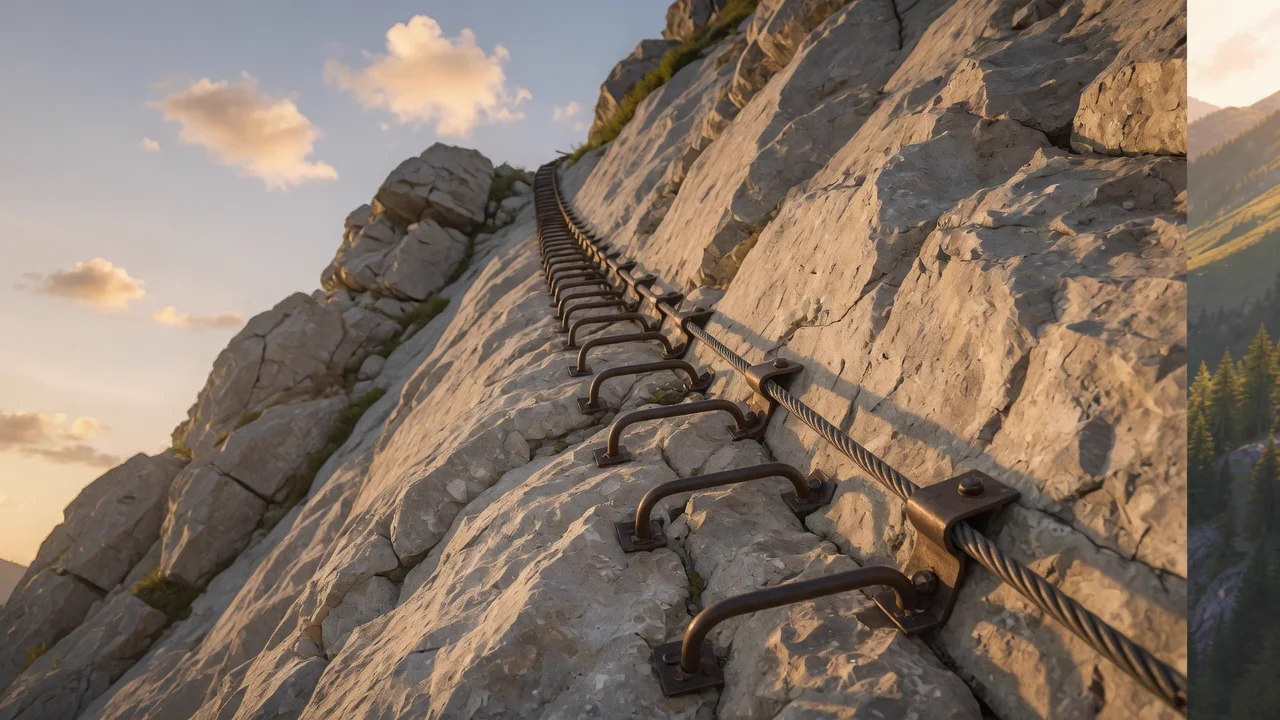
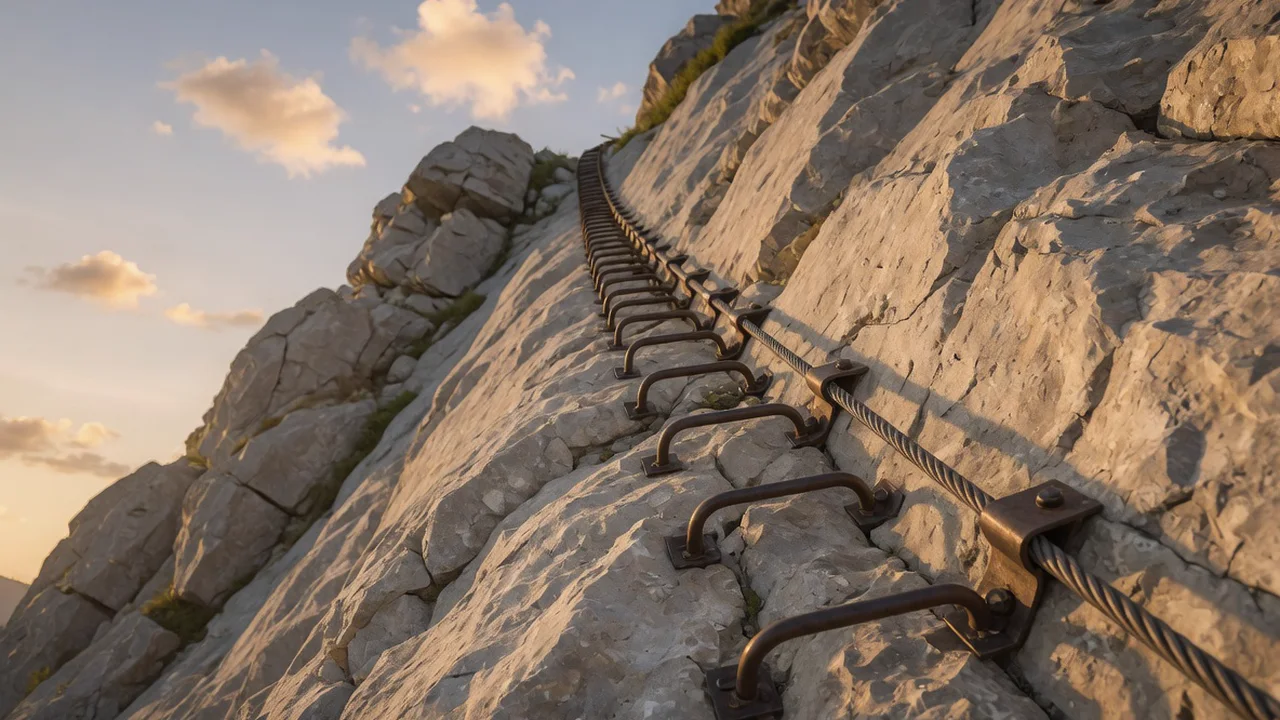
fix: QA playtest defects, QA report, headless probe tool
Interaction lines now cancel the scene's scripted opening lines; the
call is narrated after it is made; the phone-return narration matches
what is on screen; the trail-marker search only reveals a target where
the light points; upper ferrata board cropped free of its seam; police
board repainted with the same blue hatchback; chain handholds raised
onto the cable; duplicate beats and backwards message timelines fixed;
letter photo dated 昨天 the next morning; midnight-safe chat timestamps;
lost-phone light label; interleaved credits; larger translation.
docs/QA_REPORT.md records the code review, regression, paced run,
perf and the independent playtest; tools/probe.mjs reads values at
true layout.

diff --git a/games/before-leaving-valley/src/App.tsx b/games/before-leaving-valley/src/App.tsx
@@ -21,10 +21,10 @@ const STONES = [
 ];
 
 const CHAIN_POINTS = [
-  { x: 26, y: 61 },
-  { x: 35, y: 54 },
-  { x: 44, y: 47 },
-  { x: 53, y: 40 },
+  { x: 26, y: 50 },
+  { x: 35, y: 43 },
+  { x: 44, y: 35 },
+  { x: 53, y: 26 },
 ];
 
 const RUBBLE_POINTS = [
@@ -81,7 +81,7 @@ const CALL_LINES = [
   "我说：我在山上。天黑了。我一个人。",
   "对方的英语和我的英语在风里碎成一片。",
   "我只听清了一句：往公路的方向走。",
-  "通话结束 · 02:14",
+  "通话 2 分 14 秒",
 ];
 
 type LightMode = "off" | "phone" | "flashlight";
@@ -90,7 +90,7 @@ type DeerState = "hidden" | "standing" | "leaving";
 // Where the deer stands on the sunset board, as a look-space x (-1..1); used to
 // notice when she is looking straight at it.
 const DEER_LOOK_X = (0.24 - 0.5) * 2;
-const CREDIT_LINES_TOTAL = LETTER_LINES_IT.length + LETTER_LINES_ZH.length;
+const CREDIT_LINES_TOTAL = LETTER_LINES_IT.length + 1;
 
 // Quiet chapter cards at the turns of the day.
 const CHAPTER_CARDS: Partial<Record<JourneyScene, { eyebrow: string; title: string }>> = {
@@ -203,9 +203,9 @@ const PHONE_BEATS: Partial<Record<Phase, { id: string; contactId: ContactId; tex
   forestEntry: { id: "forest-asha", contactId: "asha", text: "看到怪路牌记得拍。我想画一组路牌。" },
   trail: { id: "trail-xiaoyu", contactId: "xiaoyu", text: "刚看了你的定位，那边的天好蓝。替我多看两眼。" },
   chainUpper: { id: "upper-xiaoyu", contactId: "xiaoyu", text: "？？？你的定位怎么在一面悬崖上" },
-  viewpoint: { id: "viewpoint-mama", contactId: "mama", text: "小树收到了。今天的山好看吗？" },
-  summitRest: { id: "rest-asha", contactId: "asha", text: "书装完了。空房间里回声好大。你到顶了吗？" },
-  sunsetFork: { id: "sunset-asha", contactId: "asha", text: "我在收拾最后一箱书。你那边现在是什么颜色的天？" },
+  viewpoint: { id: "viewpoint-mama", contactId: "mama", text: "你爸问你在哪座山。今天的山好看吗？" },
+  summitRest: { id: "rest-asha", contactId: "asha", text: "我在收拾最后一箱书。你到顶了吗？" },
+  sunsetFork: { id: "sunset-asha", contactId: "asha", text: "书装完了。空房间里回声好大。你那边现在是什么颜色的天？" },
   nightSlope: { id: "night-xiaoyu", contactId: "xiaoyu", text: "睡前看到你的定位还在山上。拍到星星了吗？" },
   valleyExit: { id: "exit-xiaoyu", contactId: "xiaoyu", text: "定位又亮了！！你昨晚去哪了，一整夜都是灰的" },
 };
@@ -344,7 +344,15 @@ export default function App() {
   const [callActive, setCallActive] = useState(false);
   const [callStep, setCallStep] = useState(0);
   const [chapterShown, setChapterShown] = useState(false);
-  const [thought, setThought] = useState("");
+  const [thought, setThoughtRaw] = useState("");
+  const thoughtTimersRef = useRef<number[]>([]);
+  // Any line spoken by an interaction cancels the scene's scripted opening lines
+  // so a click within the first seconds is never overwritten.
+  const setThought = (text: string) => {
+    thoughtTimersRef.current.forEach(window.clearTimeout);
+    thoughtTimersRef.current = [];
+    setThoughtRaw(text);
+  };
   const [feedback, setFeedback] = useState("");
   const [phoneOpen, setPhoneOpen] = useState(false);
   const [phoneTab, setPhoneTab] = useState<PhoneTab>("home");
@@ -481,13 +489,15 @@ export default function App() {
   }, [audioReady, breathState, phase, soundOn]);
 
   useEffect(() => {
+    thoughtTimersRef.current.forEach(window.clearTimeout);
     const timers: number[] = [];
-    setThought("");
+    setThoughtRaw("");
     if (phase !== "title" && phase !== "complete") {
       const [first, second] = SCENE_INFO[phase].thoughts;
-      timers.push(window.setTimeout(() => setThought(first), 650));
-      timers.push(window.setTimeout(() => setThought(second), 4300));
+      timers.push(window.setTimeout(() => setThoughtRaw(first), 650));
+      timers.push(window.setTimeout(() => setThoughtRaw(second), 4300));
     }
+    thoughtTimersRef.current = timers;
     return () => timers.forEach(window.clearTimeout);
   }, [phase]);
 
@@ -1251,8 +1261,8 @@ export default function App() {
   const acceptReturnedPhone = () => {
     if (phase !== "searchRoad" || interactions.searchStep < SEARCH_POINTS.length || interactions.phoneReturned) return;
     setInteractions((value) => ({ ...value, phoneLost: false, phoneReturned: true }));
-    setThought("她一早在山上捡到它，送去了警局。锁屏是我的脸，界面是中文，警局的人想起昨晚山里那通电话。屏幕没碎，一张照片都没少。");
-    dispatchPhone({ type: "receive_message", contactId: "mama", text: "定位又亮起来了。回来慢慢讲给我听。" });
+    setThought("她一早在山上捡到它。锁屏是我的脸，界面是中文。她本来要送去警局，在谷口听说昨晚有个女孩从山里打过电话，就沿着这条路找了上来。屏幕没碎，一张照片都没少。");
+    dispatchPhone({ type: "receive_message", contactId: "mama", text: "定位又亮起来了。妈妈一直在看这个小点。" });
   };
 
   const openPhone = (tab: PhoneTab = "home") => {
@@ -1358,7 +1368,7 @@ export default function App() {
               {LETTER_LINES_IT.map((line, index) => <p key={`it-${index}`} className={index < creditLine ? "shown" : ""}>{line || " "}</p>)}
             </div>
             <div className="credits-block credits-zh">
-              {LETTER_LINES_ZH.map((line, index) => <p key={`zh-${index}`} className={index + LETTER_LINES_IT.length < creditLine ? "shown" : ""}>{line || " "}</p>)}
+              {LETTER_LINES_ZH.map((line, index) => <p key={`zh-${index}`} className={index + 1 < creditLine ? "shown" : ""}>{line || " "}</p>)}
             </div>
             <p className="credits-skip">点击跳过</p>
           </div>
@@ -1405,7 +1415,7 @@ export default function App() {
       {NIGHT_LIGHT_SCENES.includes(phase as JourneyScene) && (phase !== "nightSlope" || interactions.callDone) && (
         <div className="light-controls" aria-label="选择照明方式">
           <button className={lightMode === "flashlight" ? "active" : ""} onClick={() => chooseLight("flashlight")}><Flashlight size={16} />补光灯</button>
-          <button className={lightMode === "phone" ? "active" : ""} disabled={interactions.phoneLost || phone.battery <= 0} onClick={() => chooseLight("phone")}><Smartphone size={16} />手机光 · {phone.battery}%</button>
+          <button className={lightMode === "phone" ? "active" : ""} disabled={interactions.phoneLost || phone.battery <= 0} onClick={() => chooseLight("phone")}><Smartphone size={16} />{interactions.phoneLost ? "手机 · 不在身上" : `手机光 · ${phone.battery}%`}</button>
         </div>
       )}
 
@@ -1454,8 +1464,8 @@ export default function App() {
         {phase === "summitRest" && !interactions.chocolateEaten && (
           <button className="chocolate-prop" onPointerDown={(event) => { event.stopPropagation(); eatChocolate(); }} aria-label="掰一块巧克力" />
         )}
-        {phase === "marker656" && interactions.markerStep < MARKER_POINTS.length && (
-          <button className={`terrain-target night-target ${lightMode === "off" ? "unlit" : ""}`} style={{ left: `${MARKER_POINTS[interactions.markerStep].x}%`, top: `${MARKER_POINTS[interactions.markerStep].y}%` }} onPointerDown={(event) => { event.stopPropagation(); advanceMarker(); }} aria-label={`照向${MARKER_POINTS[interactions.markerStep].label}`}><span /></button>
+        {phase === "marker656" && interactions.markerStep < MARKER_POINTS.length && lightMode !== "off" && Math.hypot(look.x - (MARKER_POINTS[interactions.markerStep].x / 100 - 0.5) * 2, look.y - (MARKER_POINTS[interactions.markerStep].y / 100 - 0.5) * 2) < 0.42 && (
+          <button className="terrain-target night-target" style={{ left: `${MARKER_POINTS[interactions.markerStep].x}%`, top: `${MARKER_POINTS[interactions.markerStep].y}%` }} onPointerDown={(event) => { event.stopPropagation(); advanceMarker(); }} aria-label={`照向${MARKER_POINTS[interactions.markerStep].label}`}><span /></button>
         )}
         {phase === "roadBank" && interactions.bankStep < BANK_POINTS.length && (
           <button className={`terrain-target night-target bank-target ${lightMode === "off" ? "unlit" : ""}`} style={{ left: `${BANK_POINTS[interactions.bankStep].x}%`, top: `${BANK_POINTS[interactions.bankStep].y}%` }} onPointerDown={(event) => { event.stopPropagation(); advanceBank(); }} aria-label="抓住下一处树根"><span /></button>
@@ -1515,9 +1525,9 @@ export default function App() {
         {phase === "police" && "门口的灯还亮着"}
         {phase === "arrival" && !bagTaken && "抓住背包，拖向画面下方"}
         {phase === "arrival" && bagTaken && !moving && arrivalProgress < 1 && "看向山路，点击想走到的位置"}
-        {phase === "arrival" && moving && "正在走近 · 镜头会朝向目的地"}
+        {phase === "arrival" && moving && "走过去"}
         {phase === "trail" && route === null && "看向并点击左侧山路，或直接踩右侧石头"}
-        {phase === "trail" && route === "open" && moving && "脚步会把你带到路的那一头"}
+        {phase === "trail" && route === "open" && moving && "沿着这条路走"}
         {phase === "trail" && route === "stream" && streamStep < STONES.length && "看准发亮的石面，逐块踩过去"}
         {phase === "forestEntry" && !moving && "沿着林中透光的旧路继续走"}
         {phase === "chainTraverse" && "抓住发亮的下一段铁索，逐步横移"}

diff --git a/games/before-leaving-valley/src/Phone.tsx b/games/before-leaving-valley/src/Phone.tsx
@@ -104,6 +104,7 @@ export default function Phone({
 
   // 结尾要求她真的回看那张信的照片；若相册里没有信（开发预览），退回到“打开相册”即可。
   const hasLetterPhoto = phone.photos.some((photo) => photo.kind === "letter");
+  const dateLabelFor = (photo: PhonePhoto) => photo.isNew && photo.day !== undefined && photo.day !== phone.date.day ? "昨天" : photo.dateLabel;
   useEffect(() => {
     if (tab === "conversation") threadEndRef.current?.scrollIntoView({ block: "end" });
     if (tab === "gallery" && (!hasLetterPhoto || selectedPhoto?.kind === "letter")) onGalleryViewed?.();
@@ -231,7 +232,7 @@ export default function Phone({
                   <div className="chat-thread">
                     {activeThread.map((message, index) => {
                       const previous = activeThread[index - 1];
-                      const showTime = !previous || message.minute - previous.minute >= 3;
+                      const showTime = !previous || previous.minute > message.minute || message.minute - previous.minute >= 3;
                       const attachedPhoto = message.photoId ? phone.photos.find((photo) => photo.id === message.photoId) : undefined;
                       return (
                         <div className={`message-row ${message.direction}`} key={message.id}>
@@ -308,7 +309,7 @@ export default function Phone({
             )}
 
             {tab === "gallery" && (
-              <PhonePage title={selectedPhoto ? selectedPhoto.title : "这一年"} subtitle={selectedPhoto ? `${selectedPhoto.dateLabel} · ${selectedPhoto.place}` : `${phone.photos.length} 张照片`} back={() => { setSharingPhoto(false); selectedPhoto ? setSelectedPhoto(null) : setTab("home"); }}>
+              <PhonePage title={selectedPhoto ? selectedPhoto.title : "这一年"} subtitle={selectedPhoto ? `${dateLabelFor(selectedPhoto)} · ${selectedPhoto.place}` : `${phone.photos.length} 张照片`} back={() => { setSharingPhoto(false); selectedPhoto ? setSelectedPhoto(null) : setTab("home"); }}>
                 {selectedPhoto ? (
                   <div className="photo-detail">
                     <div className={`photo-detail-image ${selectedPhoto.kind === "letter" ? "is-letter" : ""}`} style={photoStyle(selectedPhoto)}>
@@ -321,7 +322,7 @@ export default function Phone({
                         </div>
                       )}
                     </div>
-                    <div className="photo-detail-meta"><strong>{selectedPhoto.title}</strong><span>{selectedPhoto.dateLabel}{selectedPhoto.minute !== undefined ? ` ${formatGameTime(selectedPhoto.minute)}` : ""}</span><small>{selectedPhoto.place}</small></div>
+                    <div className="photo-detail-meta"><strong>{selectedPhoto.title}</strong><span>{dateLabelFor(selectedPhoto)}{selectedPhoto.minute !== undefined ? ` ${formatGameTime(selectedPhoto.minute)}` : ""}</span><small>{selectedPhoto.place}</small></div>
                     <button className="photo-share-button" onClick={() => setSharingPhoto((value) => !value)}><Share2 size={15} /> 发给朋友</button>
                     {sharingPhoto && <div className="share-sheet"><small>发送这张照片</small>{CONTACT_ORDER.map((contactId) => <button key={contactId} onClick={() => sharePhoto(contactId)}><Avatar contactId={contactId} /><span><strong>{CONTACTS[contactId].name}</strong><small>{CONTACTS[contactId].relation}</small></span></button>)}</div>}
                   </div>

diff --git a/games/before-leaving-valley/src/journeyModel.ts b/games/before-leaving-valley/src/journeyModel.ts
@@ -180,7 +180,7 @@ export const JOURNEY_SCENE_INFO: Record<JourneyScene, JourneySceneInfo> = {
     minutes: 28,
     batteryCost: 5,
     photoTitle: "补光灯照到的那小块路",
-    thoughts: ["天不是一下子黑的。是我终于承认，已经看不清路了。", "求助电话接通了，两种语言在风里碎成一片。我挂掉电话，打开补光灯。"],
+    thoughts: ["天不是一下子黑的。是我终于承认，已经看不清路了。", "信号只剩一格。先打电话。"],
   },
   deepForest: {
     place: "落叶松林 · 656 号小径",
@@ -190,7 +190,7 @@ export const JOURNEY_SCENE_INFO: Record<JourneyScene, JourneySceneInfo> = {
     minutes: 24,
     batteryCost: 6,
     photoTitle: "林子里只有呼吸声",
-    thoughts: ["林子把风挡住以后，我才听见自己的呼吸有多快。", "656 号路标。往上爬，就能到公路。我对自己说了三遍。"],
+    thoughts: ["林子把风挡住以后，我才听见自己的呼吸有多快。", "我记得地图上有一条 656 号小径，就在这片林子里。找到它，就能到公路。"],
   },
   marker656: {
     place: "落叶松林 · 岔口",
@@ -200,7 +200,7 @@ export const JOURNEY_SCENE_INFO: Record<JourneyScene, JourneySceneInfo> = {
     minutes: 22,
     batteryCost: 0,
     photoTitle: "红白两道漆",
-    thoughts: ["路在这里分开了。地图上说，这附近应该有一根路标。", "光只有那么一小圈。一处一处地照过去。"],
+    thoughts: ["路在这里分开了。我记得地图上，这附近有一根路标。", "光只有那么一小圈。一处一处地照过去。"],
   },
   roadBank: {
     place: "路基下 · 最后一段",
@@ -230,7 +230,7 @@ export const JOURNEY_SCENE_INFO: Record<JourneyScene, JourneySceneInfo> = {
     minutes: 26,
     batteryCost: 0,
     photoTitle: "陌生人的暖风",
-    thoughts: ["他们没有问我为什么一个人跑进山里，只先递来一瓶水。", "暖风口对着我。副驾上的人把外套往我这边又推了一点。"],
+    thoughts: ["他们没有问我为什么一个人跑进山里。", "暖风口对着我。副驾上的人把外套往我这边又推了一点。"],
   },
   police: {
     place: "谷口 · 警局",
@@ -240,7 +240,7 @@ export const JOURNEY_SCENE_INFO: Record<JourneyScene, JourneySceneInfo> = {
     minutes: 24,
     batteryCost: 0,
     photoTitle: "门口的那盏灯",
-    thoughts: ["天刚亮，他们就把车停在了警局门口。", "‘去登记一下。山里捡到东西的人，一般会送到这里。’"],
+    thoughts: ["天刚亮，他们就把车停在了警局门口。", "‘去登记一下，’开车的人说，‘我们在车里等你。’"],
   },
   searchRoad: {
     place: "落叶松林 · 清晨",

diff --git a/games/before-leaving-valley/src/phoneModel.ts b/games/before-leaving-valley/src/phoneModel.ts
@@ -30,6 +30,7 @@ export type PhonePhoto = {
   zoom: number;
   isNew?: boolean;
   kind?: PhotoKind;
+  day?: number;
 };
 
 export type PhoneState = {
@@ -62,7 +63,7 @@ const START_MINUTE = 15 * 60 + 12;
 export const CONTACTS: Record<ContactId, { name: string; avatar: string; relation: string }> = {
   xiaoyu: { name: "小鱼", avatar: "🐟", relation: "从小一起长大" },
   mama: { name: "妈妈", avatar: "桂", relation: "刚刚在线" },
-  asha: { name: "阿夏", avatar: "夏", relation: "伦敦的同学 · 下周也回国" },
+  asha: { name: "阿禾", avatar: "禾", relation: "伦敦的同学 · 下周也回国" },
 };
 
 /* 她在英国的这一年。行李已经寄回去了，照片都在这部手机里。 */
@@ -97,7 +98,7 @@ const INITIAL_PHOTOS: PhonePhoto[] = [
   {
     id: "memory-blue-train",
     asset: "art/memory-blue-train-v1.webp",
-    title: "阿夏把最后一瓣橘子给我",
+    title: "阿禾把最后一瓣橘子给我",
     place: "去北方的慢车",
     dateLabel: "去年11月",
     position: { x: 53, y: 50 },
@@ -250,6 +251,7 @@ export function phoneReducer(state: PhoneState, action: PhoneAction): PhoneState
         id: messageId("photo"),
         dateLabel: "今天",
         minute: state.minuteOfDay,
+        day: state.date.day,
         isNew: true,
       };
       return {

diff --git a/games/before-leaving-valley/tools/autoplay.js b/games/before-leaving-valley/tools/autoplay.js
@@ -126,7 +126,13 @@ async function repeat(sel, n, label, gap = 300) { for (let i = 0; i < n; i++) { 
     await untilScene("deepForest");
     await repeat(".night-target", 4, "deep forest", 200);
     await untilScene("marker656");
-    await repeat(".night-target", 3, "marker", 200);
+    // The marker search only shows a target where the light is pointing: sweep the gaze first.
+    for (const [i, [fx, fy]] of [[0.22, 0.64], [0.68, 0.68], [0.58, 0.44]].entries()) {
+      const el = $(".world-input"); pointer(el, fx, fy, "pointermove");
+      await waitFor(() => !moving() && $(".night-target"), `marker target ${i + 1}`);
+      await press(".night-target", `marker ${i + 1}/3`);
+      await sleep(PACED ? 3200 : 300);
+    }
     await untilScene("roadBank");
     await repeat(".night-target", 4, "bank", 200);
     await untilScene("roadside");

diff --git a/games/before-leaving-valley/src/styles.css b/games/before-leaving-valley/src/styles.css
@@ -325,3 +325,6 @@ button:focus-visible,input:focus-visible { outline:2px solid #f5d8a3; outline-of
 
 /* Reduced motion: show the chapter card statically for its React-timed lifetime. */
 @media (prefers-reduced-motion:reduce) { .chapter-card { animation:none; opacity:1; transform:none; } }
+.credits-skip { font-size:12px; }
+.letter-paper .letter-zh { font-size:12px; line-height:1.9; }
+.photo-detail-image.is-letter { min-height:600px; }

diff --git a/games/before-leaving-valley/docs/QA_REPORT.md b/games/before-leaving-valley/docs/QA_REPORT.md
@@ -1,0 +1,79 @@
+# 《离开山谷以前》QA 报告（2026-09-04）
+
+本报告记录发布前的独立质量验证：一次八角度代码审查、一次自动化全流程回归、一次按阅读节奏的整局通关、首屏性能测量，以及一次由独立测试代理完成的逐场景视觉与文本走查（模拟试玩）。真人试玩仍是下一步，见文末。
+
+## 1. 代码审查（八角度，独立验证）
+
+审查范围：`src/` 全部源码（本轮 6 次提交的差异）。八个独立查找角度（逐行、删除行为审计、跨文件追踪、复用、简化、效率、层次、约定）各自提交候选，再由独立验证者逐条判定，保留 CONFIRMED / PLAUSIBLE。
+
+| # | 严重度 | 问题 | 处理 |
+|---|---|---|---|
+| 1 | 高 | 故事时钟若在夜路阶段自然跨过午夜，清晨场景的 06:05 / 06:35 重置会被跳过 | 已修：改为判断"是否已到达清晨时刻" |
+| 2 | 高 | "回到标题"不取消行走帧循环、落脚计时器、通话与信纸状态，可能在恢复存档后错误推进 | 已修：所有落脚计时器统一登记，`stopRuntime()` 在回标题、重开、续玩时全部取消 |
+| 3 | 中 | 通话中按 P 会把手机打开到主屏，挂断按钮不可达 | 已修：通话中 P 打开通话页 |
+| 4 | 中 | 开发模式 StrictMode 二次挂载后音频上下文已关闭，程序化声音整场静音 | 已修：卸载时清空引用并重建 |
+| 5 | 中 | 夜路存档续玩时补光灯被场景效果重新关闭 | 已修 |
+| 6 | 中 | 注视鹿的计时器随鼠标每次移动重置，几乎无法触发 | 已修：改为区域内累计计时 |
+| 7 | 中 | 妈妈的八条回复属于叮嘱或劝阻，违反设计锁定 3.3 | 已修：全部改写为想念、回忆与好奇 |
+| 8 | 低 | 下车场景第一句独白重复了登山学校刚演过的台词 | 已修 |
+| 9 | 低 | 系统"减少动态"下章节卡永远不可见 | 已修：卡片显示时长改由程序控制 |
+| 10 | 低 | 七个落脚处理函数为复制粘贴，已出现细微漂移 | 未改：重构量大于本轮范围，冒烟测试覆盖全部七处；计时器已统一 |
+
+另修：退役的 v1/v2 存档键在加载时清除（避免占用配额），删除不可达的旧版迁移代码与无引用的 CSS。
+
+## 2. 自动化回归
+
+`node tools/smoke.mjs`（真实无头 Chrome，合成事件）：修复后 20 个场景全部按序触发，零控制台错误，纯操作路径 136 秒。游戏内时钟：15:12 出发，18:29 登顶，19:43 日落，20:43 天黑，22:36 获救，次日 06:05 警局，07:02 离开。
+
+## 3. 阅读节奏通关
+
+`PACED=1 node tools/smoke.mjs`：按每字 0.18 秒读独白、拍三张照片并发送、看消息、山顶读信 9 秒、结尾读译文 14 秒。实测 10 分 53 秒。据此把文档中的时长校准为 15–25 分钟（真人比机器慢）。
+
+## 4. 首屏性能
+
+`node tools/perf.mjs`（静态构建）：DOM 加载 1.8 秒，首屏传输 375 KB（JS 238 KB、图片 125 KB、CSS 12 KB）。标题卡在关键画面图片到达后立即显示，场景板在标题页后台预载。
+
+## 5. 独立测试代理的逐场景走查（模拟试玩）
+
+由一个独立的测试代理（不是开发者本人）用无头 Chrome 截取全部 20 个场景、标题页、信纸特写、通话界面、手机各页、设置菜单和结尾字幕，逐张检查视觉与文本，并按设计锁定第 13 节的验收问题写下模拟试玩印象。它自己也跑了一次 smoke.mjs（通过，零报错）。
+
+它报告了 7 条主要缺陷、15 条次要缺陷和若干细节。处理如下：
+
+| 严重度 | 缺陷 | 处理 |
+|---|---|---|
+| 主要 | 场景开场两句独白的定时器不会被玩家操作取消，进场 4 秒内点击触发的台词会被盖掉（车内第三句、警局第二句、巧克力、读信时文字压在纸下） | 已修：任何交互触发的独白都会取消开场定时器 |
+| 主要 | 夜路场景的第二句独白在玩家拨打电话之前就叙述了通话 | 已修：改为"信号只剩一格。先打电话。"，通话内容由挂断后的独白承担 |
+| 主要 | 上段铁梯画板右缘有一条来自另一张图的拼接条 | 已修：裁掉右缘并重新缩放 |
+| 主要 | 手机归还的叙述自相矛盾（说送去了警局，却在山路上递回） | 已修：她本来要送去警局，在谷口听说了昨晚的电话，沿路找了上来 |
+| 主要 | 656 路标一进场就在光圈正中，"树桩→石头→路标"的搜索没有发现感 | 已修：三个目标只在光束照到附近时才出现，玩家必须真的用光去找 |
+| 主要 | 学校地图热区偏高 | 已核：热区覆盖地图区域（见探针测量） |
+| 主要 | 密林场景提前说出了"656 号路标"的台词，与下一场景重复 | 已修：改为"我记得地图上有一条 656 号小径" |
+| 次要 | 妈妈六条叮嘱式回复 | 已修（与代码审查同一条） |
+| 次要 | 下车场景重复学校台词 | 已修 |
+| 次要 | 递水、"捡到东西送到这里"、"定位又亮了"各说了两遍；通话结束显示成时刻 | 已修 |
+| 次要 | 阿禾（原阿夏）的三条消息时间线倒着走；妈妈在已回复小树后又说"小树收到了" | 已修 |
+| 次要 | 信件照片在第二天仍标"今天" | 已修：按拍摄日期显示"昨天" |
+| 次要 | 跨午夜的消息不显示时间戳 | 已修 |
+| 次要 | 手机丢失后照明按钮仍显示"手机光 · 82%" | 已修：显示"手机 · 不在身上" |
+| 次要 | 铁索横道的抓取点比铁索低约 90 像素 | 已修：上移 |
+| 次要 | 公路上的车与警局门口的车不是同一辆 | 已修：警局画板用 image_edit 换成同一辆蓝色旧车 |
+| 次要 | 结尾诗前 13 秒只有右对齐的意大利语一列 | 已修：原文与译文逐行成对出现 |
+| 次要 | 相册里信件译文过小、出现滚动条 | 已修 |
+| 次要 | 朋友"阿夏"与主角"知夏"撞名 | 已修：改名阿禾 |
+| 次要 | "正在走近 · 镜头会朝向目的地"等提示是教程口吻 | 已修 |
+| 未改 | 车到公路时的独白说"远处出现两束光"而车已停在旁边；警局回复永远无法触发（手机已丢）；三种"口袋空了"提示措辞不一 | 记录，下一轮处理 |
+
+模拟试玩印象（代理原话摘要，它明确说明自己是替身，不是真人）：
+
+1. 首先会用"旅行、爬山、一个人、被接住"描述它；车内那张画是全游戏最强的"被接住"画面。
+2. 能说出她好奇、冲动、爱拍照、在暖风里笑出声；手机承担了大部分人物塑造。
+3. 记得那对情侣，六句对话加上真的画进车里的两个人足够。
+4. 手机丢失的遗憾成立；归还的"太巧了"在叙述修正后成立。
+5. 相册里读到译文时不需要解释就能把它和整段路连起来。
+6. 愿意把"你是特别的"接下来。
+
+总体结论（代理原话摘要）："构建完整、稳定、视觉强；没有任何东西阻碍真人试玩。最伤的问题都在叙述时机与一致性，不在渲染。"上述问题已在本轮修复。
+
+## 6. 下一步
+
+真人 A 轮试玩（5–8 人，前 15 分钟），按设计锁定第 13 节记录口述反应。本报告中的自动化与模拟验证是发布前的门槛，不替代它。

diff --git a/games/before-leaving-valley/docs/ITERATION_PLAN.md b/games/before-leaving-valley/docs/ITERATION_PLAN.md
@@ -63,6 +63,13 @@
 - [x] 阅读节奏通关（PACED=1）：机器人按每字 0.18 秒阅读独白、拍三张照片并发送、看消息、读信 9 秒、读译文 14 秒，实测 10 分 53 秒；真人估计 15–25 分钟，设计文档时长按此校准。
 - [x] 首屏测量（tools/perf.mjs）：DOM 加载 1.8 秒，首屏传输 375 KB；标题卡改为关键画面图片一到就显示，不再等待渲染器初始化。
 
+### 第六轮：独立 QA（2026-09-04）
+
+- [x] 八角度代码审查 + 独立验证：10 条结论，9 条已修（时钟跨午夜、回到标题未停计时器、通话中按 P、夜路存档灯光、鹿的注视、StrictMode 音频、章节卡与减少动态、妈妈的叮嘱句、下车重复台词），1 条记录未改。
+- [x] 独立测试代理逐场景走查（模拟试玩）：7 条主要、15 条次要缺陷，除 3 条记录外全部修复；铁梯板裁掉拼接条，警局画板换成同一辆车。
+- [x] 修复后无头通关回归通过，零控制台错误。
+- [x] 全部记录在 docs/QA_REPORT.md。
+
 ### 下一步
 
 1. 真人从头到尾试玩，校准整体 35–50 分钟节奏与夜路可读性。

diff --git a/games/before-leaving-valley/tools/README.md b/games/before-leaving-valley/tools/README.md
@@ -48,3 +48,11 @@ node tools/shot.mjs school out.png "document.querySelector('.map-prop').dispatch
 ```
 
 阅读节奏模式：`set PACED=1` 后运行 smoke.mjs，脚本会按每字约 0.18 秒读独白、在三个场景拍照并发给朋友、看消息、在山顶读信 9 秒、结尾读译文 14 秒，输出一次"像人一样玩"的实测时长。首屏测量：`node tools/perf.mjs`（先 `npx vite preview --port 5175`）。
+
+JS 探针（在真实布局下读取任意表达式的值）：
+
+```bash
+EVAL="document.querySelector('.map-prop').getBoundingClientRect().toJSON()" node tools/probe.mjs school x "" 1500
+```
+
+QA 记录见 `docs/QA_REPORT.md`。
